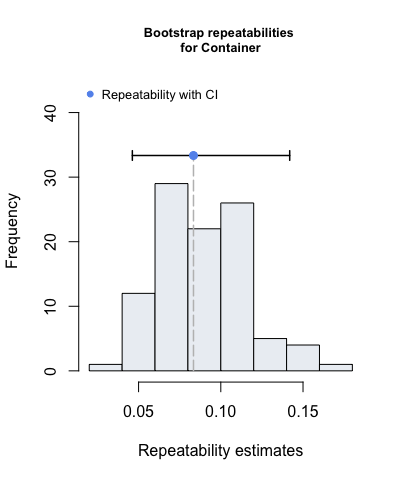
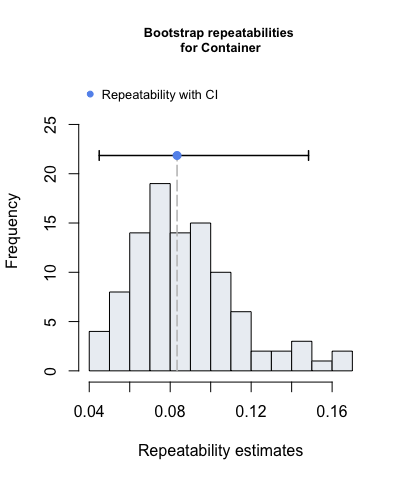
added issues line to readme

diff --git a/README.md b/README.md
@@ -47,10 +47,13 @@ remotes::install_github("mastoffel/rptR", build_vignettes = TRUE, dependencies =
 browseVignettes("rptR")
 ```
 
+If you find a bug, please report a minimal reproducible example in the
+[issues](https://github.com/mastoffel/rptR/issues).
+
 ### Example
 
-Calculating the repeatability of beetle body length (`BodyL`) for both
-`Container` and `Population` while adjusting for `Treatment` and `Sex`:
+Repeatability of beetle body length (`BodyL`) for both `Container` and
+`Population` while adjusting for `Treatment` and `Sex`:
 
 ``` r
 library(rptR)
@@ -60,8 +63,6 @@ rpts <- rpt(BodyL ~ Treatment + Sex + (1 | Container) + (1 | Population),
             grname = c("Container", "Population"), data = BeetlesBody, 
             datatype = "Gaussian", nboot = 100, npermut = 100)
 ```
-
-An extended summary of the results is shown with `summary()`.
 
 ``` r
 summary(rpts)
@@ -77,12 +78,12 @@ summary(rpts)
 #> 
 #> Repeatability estimation overview: 
 #>       R     SE   2.5%  97.5% P_permut  LRT_P
-#>  0.0834 0.0268 0.0462  0.142     0.01      0
+#>  0.0834 0.0265 0.0449  0.148     0.01      0
 #> 
 #> Bootstrapping and Permutation test: 
-#>             N   Mean   Median   2.5%  97.5%
-#> boot      100 0.0888 8.89e-02 0.0462 0.1419
-#> permut    100 0.0043 1.09e-11 0.0000 0.0188
+#>             N    Mean  Median   2.5%  97.5%
+#> boot      100 0.08730 0.08147 0.0449 0.1484
+#> permut    100 0.00478 0.00135 0.0000 0.0176
 #> 
 #> Likelihood ratio test: 
 #> logLik full model = -1528.553
@@ -96,12 +97,12 @@ summary(rpts)
 #> 
 #> Repeatability estimation overview: 
 #>       R     SE   2.5%  97.5% P_permut  LRT_P
-#>   0.491  0.111   0.26  0.645     0.03      0
+#>   0.491  0.107  0.255  0.649     0.02      0
 #> 
 #> Bootstrapping and Permutation test: 
 #>             N   Mean Median   2.5%  97.5%
-#> boot      100  0.461  0.464  0.260  0.645
-#> permut    100  0.455  0.455  0.424  0.489
+#> boot      100  0.474  0.482  0.255  0.649
+#> permut    100  0.454  0.453  0.420  0.487
 #> 
 #> Likelihood ratio test: 
 #> logLik full model = -1528.553
@@ -122,4 +123,4 @@ plot(rpts, grname="Container", type="boot", cex.main=0.8, col = "#ECEFF4")
 plot(rpts, grname="Population", type="boot", cex.main=0.8, col = "#ECEFF4")
 ```
 
-![](README-gaussian-1.png)![](README-gaussian-2.png)
+<img src="README-gaussian-1.png" width="100%" /><img src="README-gaussian-2.png" width="100%" />
